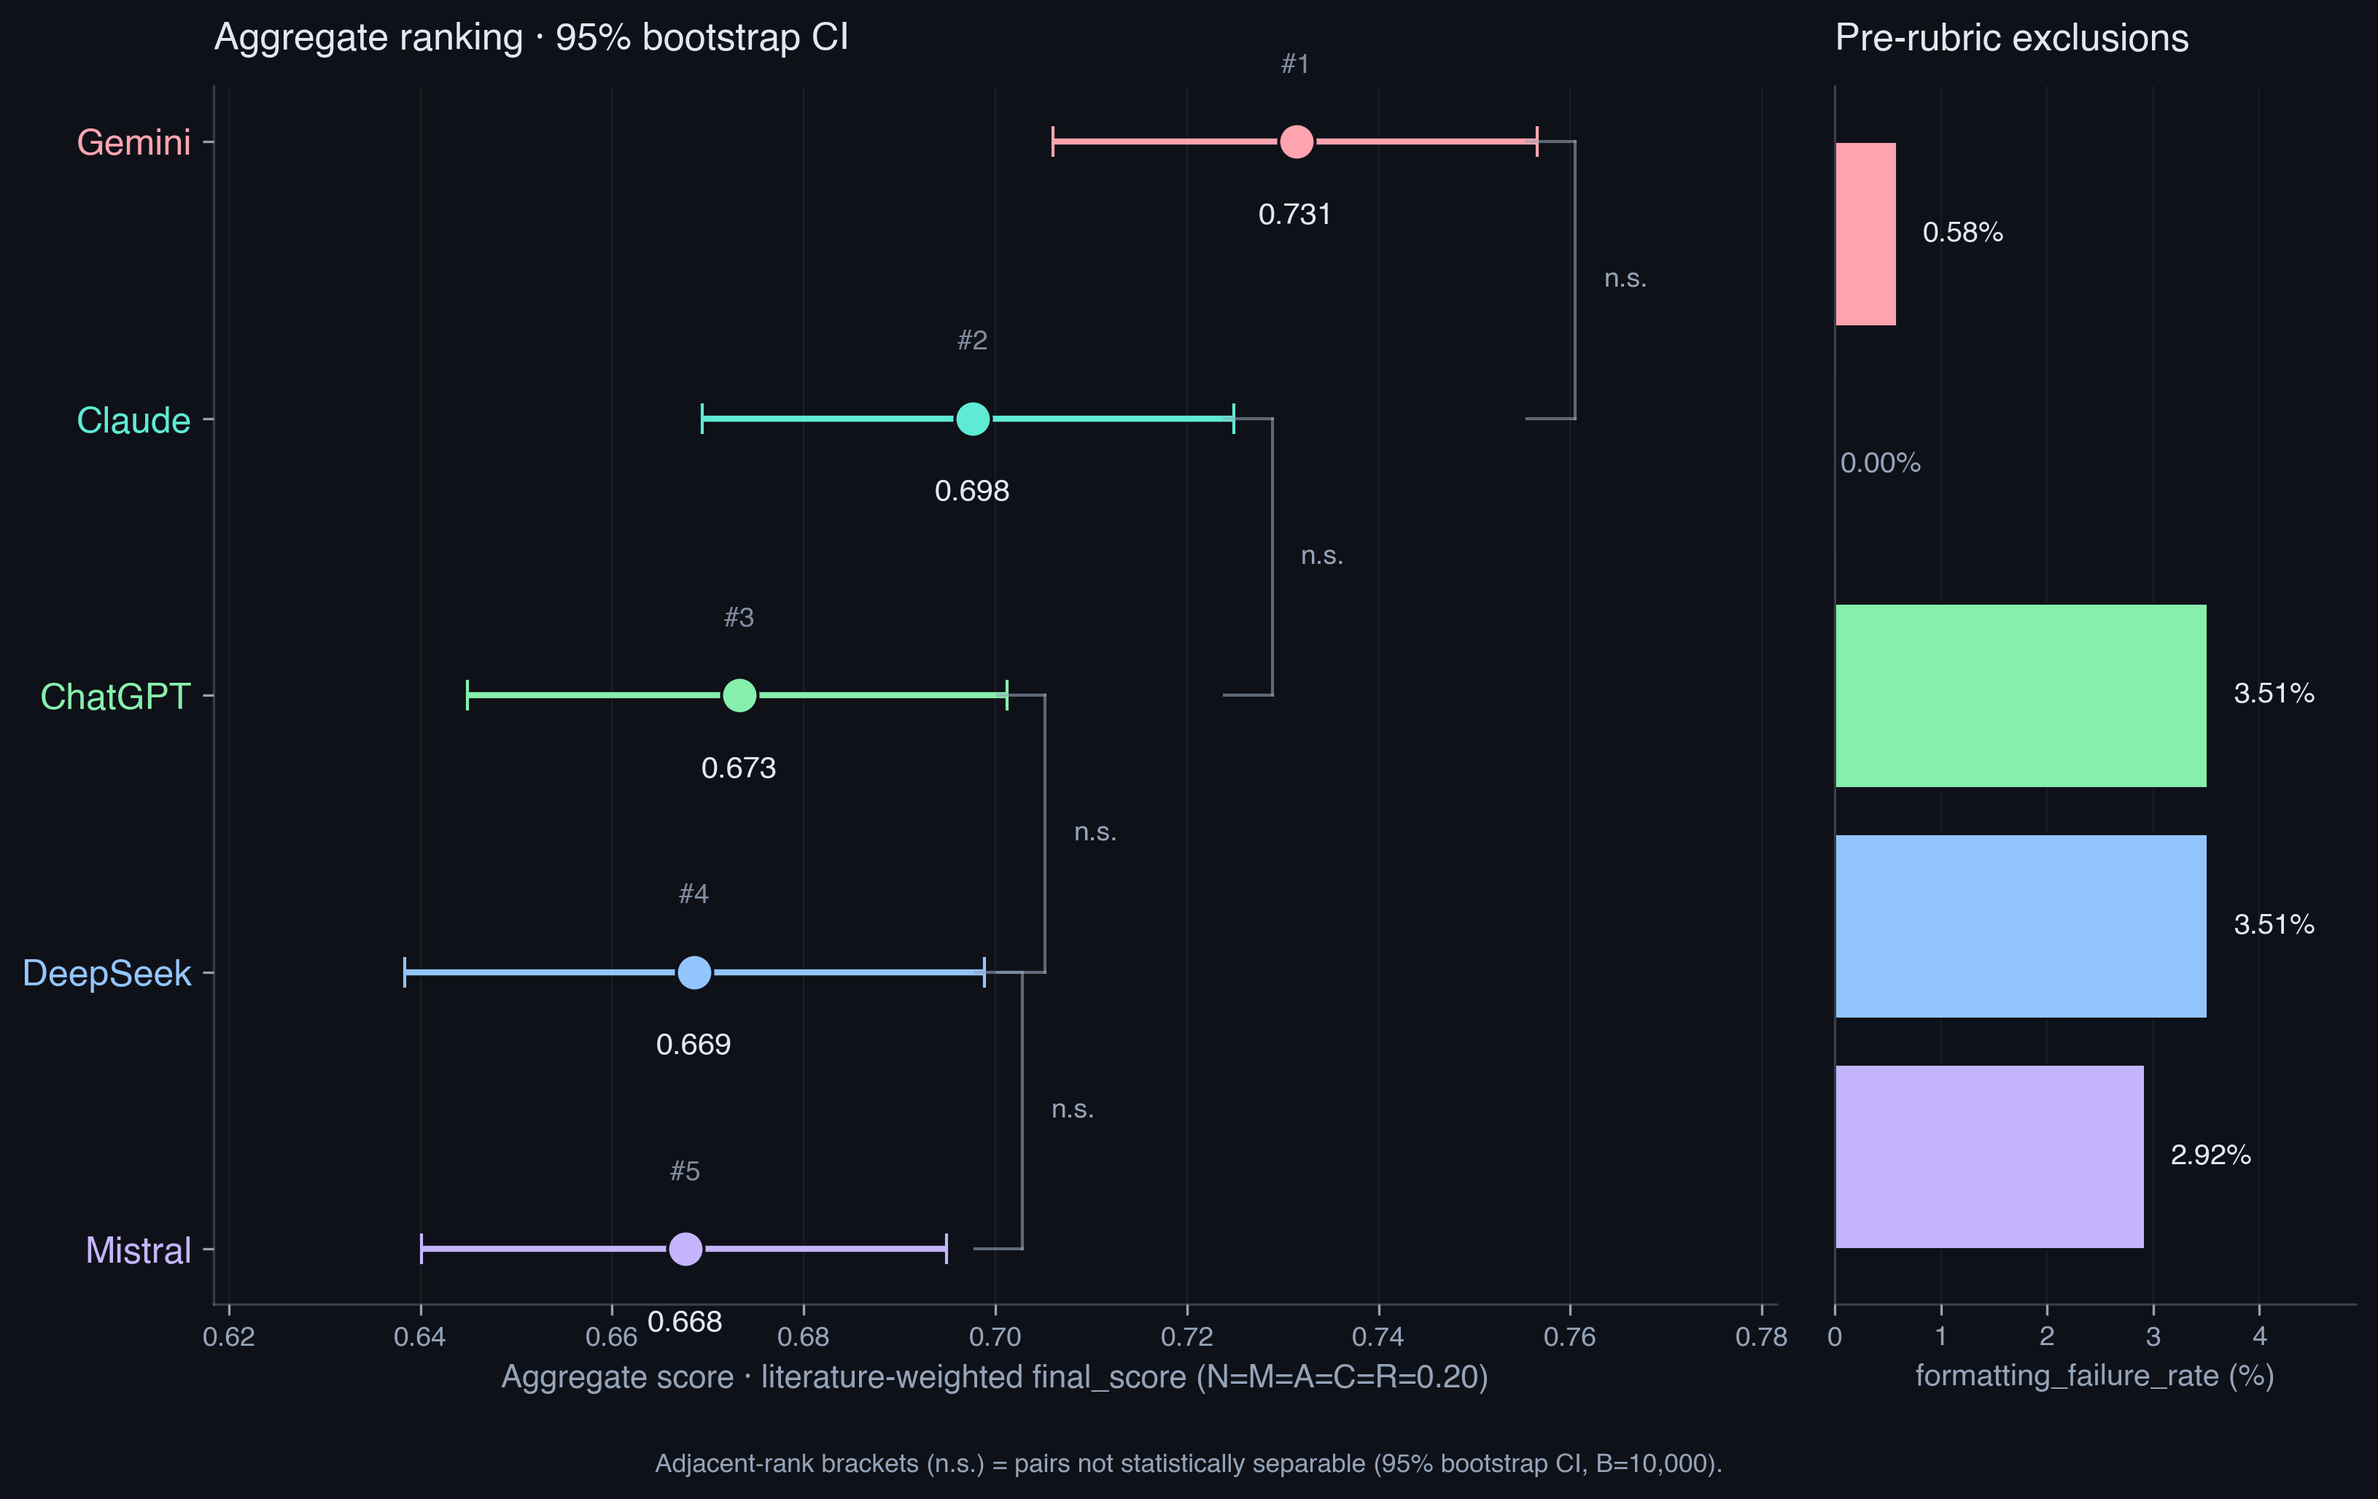
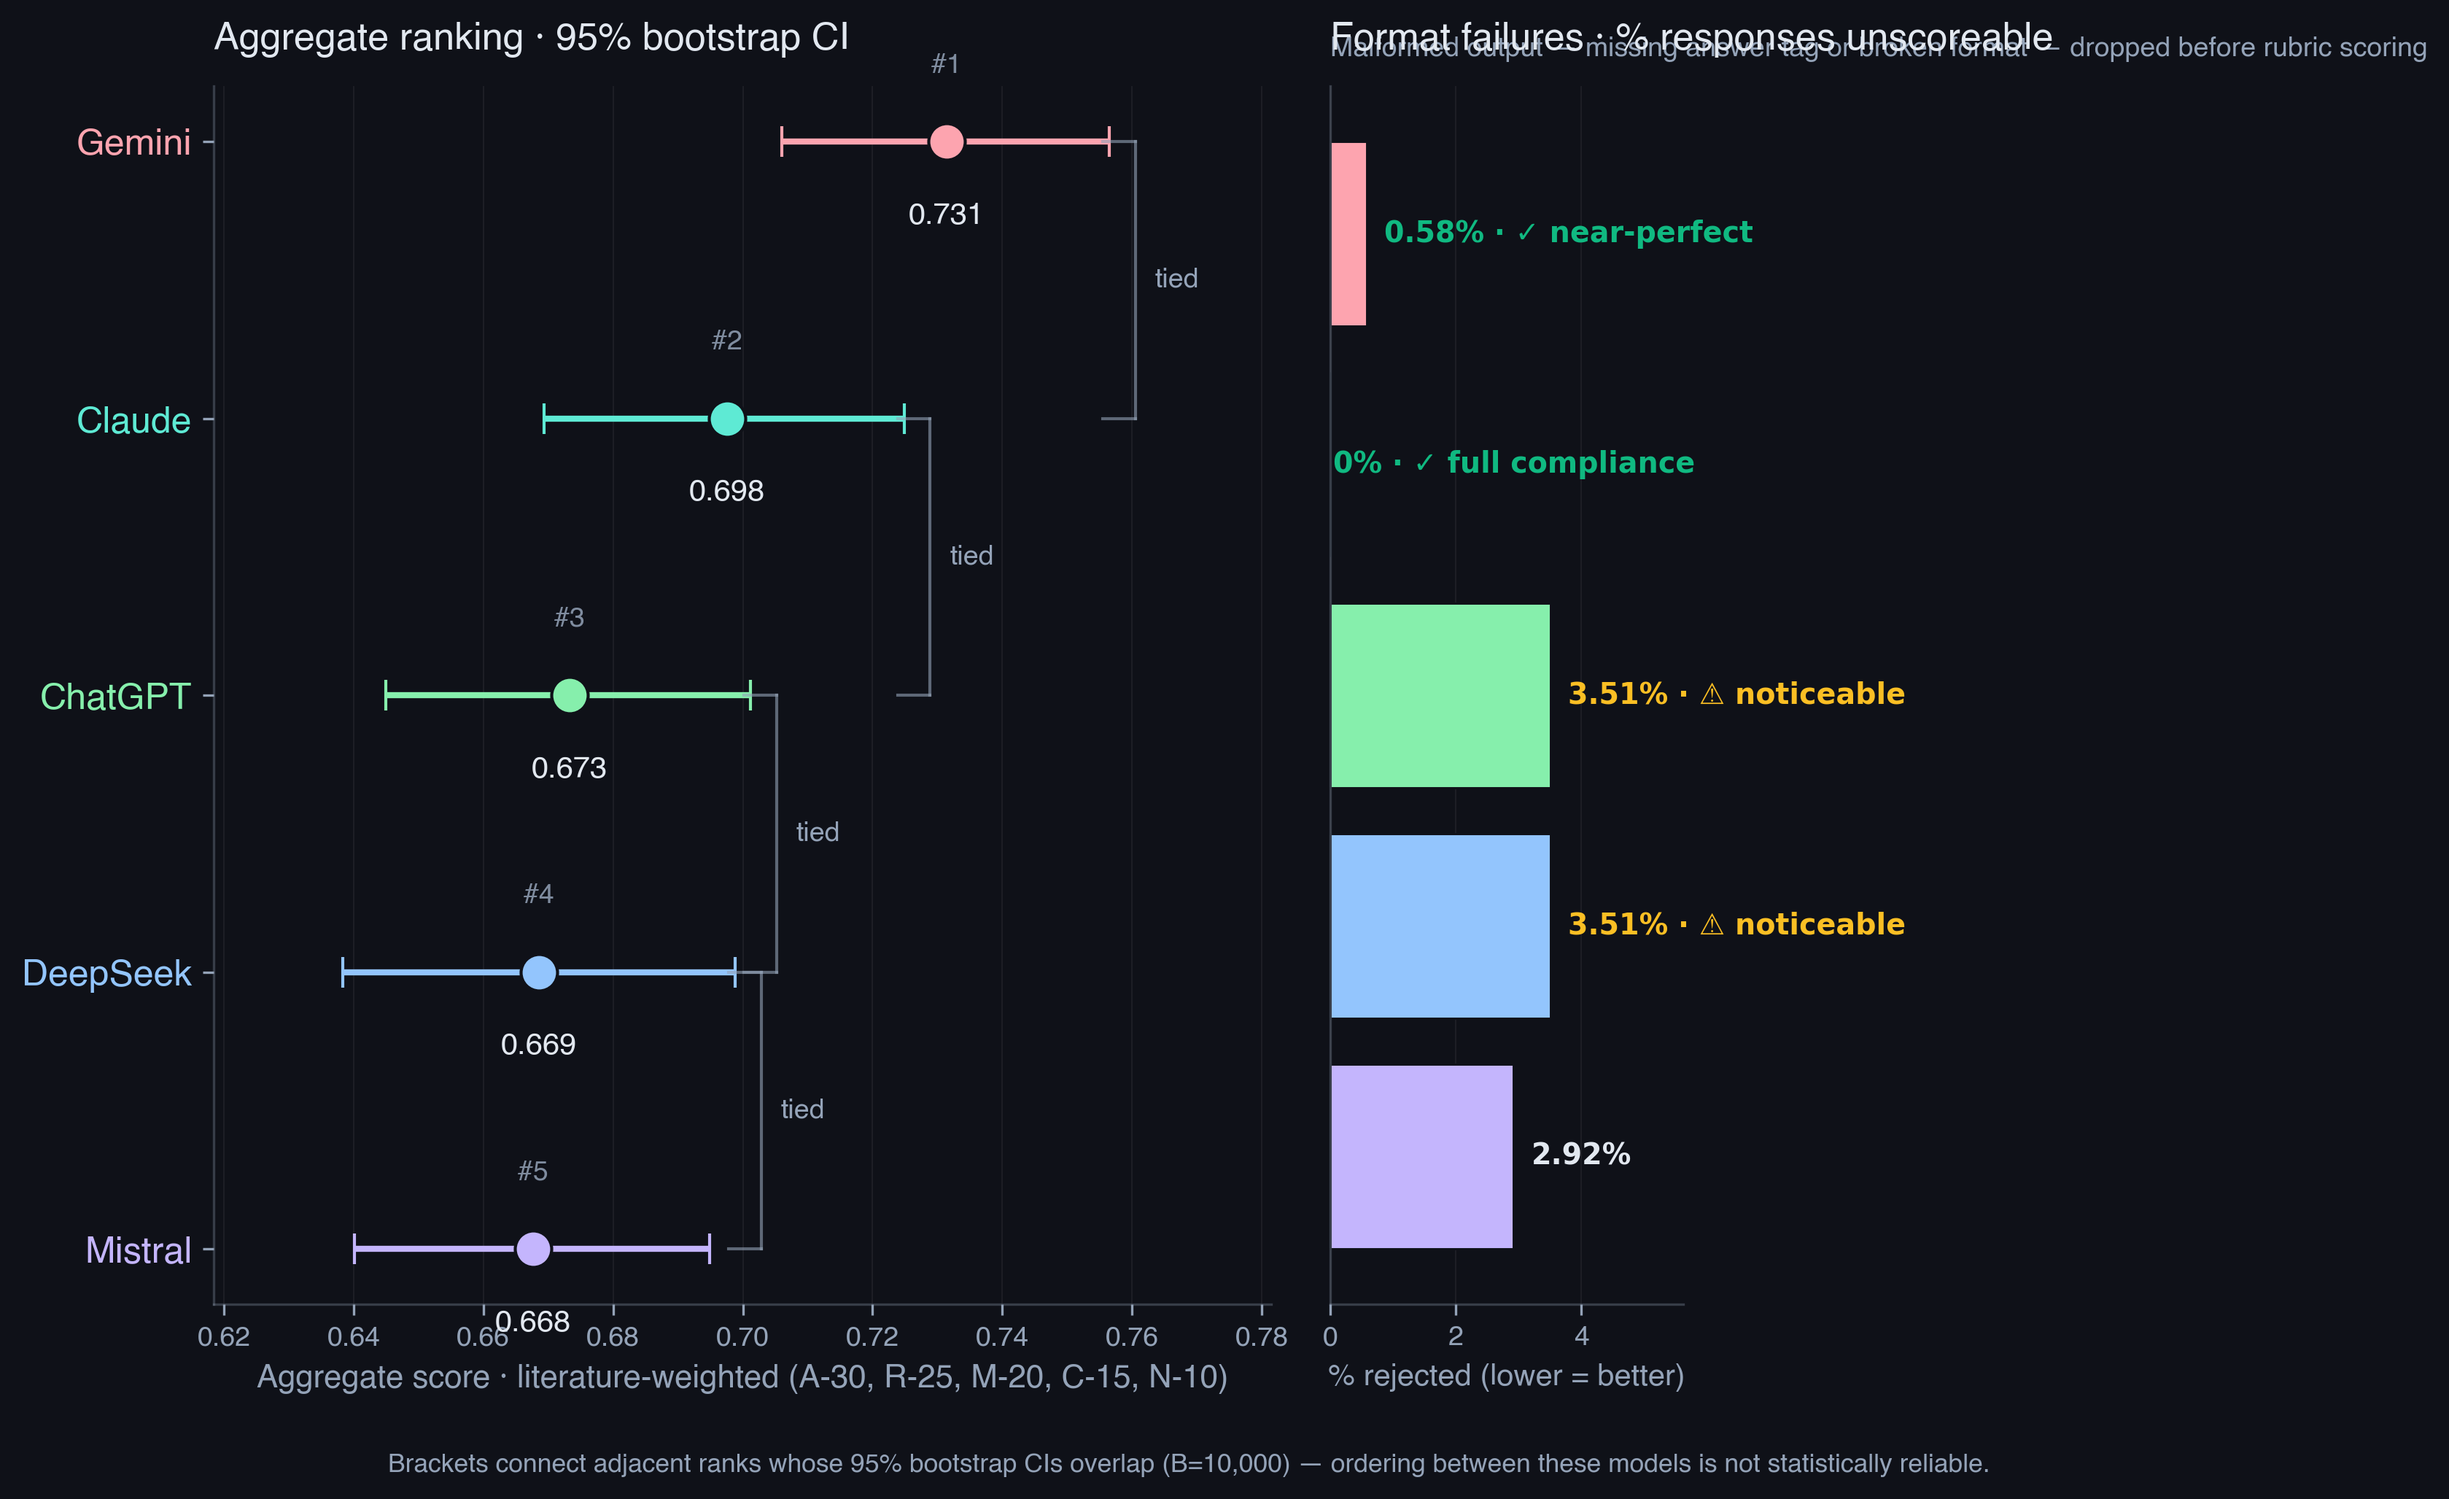
a6 polish: tied bracket label, weight format fix, format-failures panel reframed

diff --git a/scripts/generate_group_a_figures.py b/scripts/generate_group_a_figures.py
@@ -845,7 +845,7 @@ def figure_a6():
         ax.plot([x_anchor - arm, x_anchor], [j, j],
                 color=SITE_FG_MUTED, lw=1.0, alpha=0.6)
         ax.text(x_anchor + 0.003, (i + j) / 2,
-                "n.s.", ha="left", va="center", fontsize=9,
+                "tied", ha="left", va="center", fontsize=9,
                 color=SITE_FG_MUTED, fontweight="700")
 
     # X-axis padded enough to fit the rightmost n.s. label.
@@ -853,7 +853,7 @@ def figure_a6():
         if ns_pairs else max(upper) + 0.005
     ax.set_xlim(min(lower) - 0.02, max(bracket_x_max, max(upper) + 0.01))
     ax.set_xlabel(
-        "Aggregate score · literature-weighted final_score (N=M=A=C=R=0.20)",
+        "Aggregate score · literature-weighted (A-30, R-25, M-20, C-15, N-10)",
         color=SITE_FG_MUTED, fontsize=10.5)
     dim_remaining_spines(ax)
     ax.grid(axis="x", linestyle="-", alpha=SITE_GRID_ALPHA, color="#ffffff")
@@ -869,32 +869,50 @@ def figure_a6():
     ax2.barh(y_pos, rates,
              color=[MODEL_COLORS[m] for m in rank_order],
              edgecolor=SITE_BG, linewidth=0.7)
-    x_max = max(max(rates) * 1.4, 1.0) if rates else 1.0
-    for i, rate in enumerate(rates):
+    x_max = max(max(rates) * 1.6, 1.2) if rates else 1.2
+
+    COLOR_GOOD = "#10b981"
+    ACCENT_GOLD = "#fbbf24"
+    annotations = {
+        "claude":   ("0% · ✓ full compliance", COLOR_GOOD),
+        "gemini":   ("0.58% · ✓ near-perfect", COLOR_GOOD),
+        "mistral":  ("2.92%", SITE_FG),
+        "chatgpt":  ("3.51% · ⚠ noticeable", ACCENT_GOLD),
+        "deepseek": ("3.51% · ⚠ noticeable", ACCENT_GOLD),
+    }
+    for i, m in enumerate(rank_order):
+        rate = rates[i]
+        text, color = annotations[m]
         if rate < 1e-6:
-            # Zero-width bar — left-justify label flush against the y-axis
-            # so it doesn't float in empty right-side space.
-            ax2.text(0.05, y_pos[i], f"{rate:.2f}%",
+            ax2.text(0.05, y_pos[i], text,
                      va="center", ha="left",
-                     color=SITE_FG_MUTED, fontsize=9.5, fontweight="700")
+                     color=color, fontsize=9.5, fontweight="700",
+                     fontfamily="DejaVu Sans")
         else:
-            ax2.text(rate + x_max * 0.05, y_pos[i], f"{rate:.2f}%",
+            ax2.text(rate + x_max * 0.05, y_pos[i], text,
                      va="center", ha="left",
-                     color=SITE_FG, fontsize=9.5, fontweight="700")
+                     color=color, fontsize=9.5, fontweight="700",
+                     fontfamily="DejaVu Sans")
     ax2.set_yticks([])
     ax2.invert_yaxis()
     ax2.set_xlim(0, x_max)
-    ax2.set_xlabel("formatting_failure_rate (%)",
+    ax2.set_xlabel("% rejected (lower = better)",
                    color=SITE_FG_MUTED, fontsize=10)
     dim_remaining_spines(ax2)
     ax2.grid(axis="x", linestyle="-", alpha=SITE_GRID_ALPHA, color="#ffffff")
     ax2.set_axisbelow(True)
-    ax2.set_title("Pre-rubric exclusions",
+    ax2.set_title("Format failures · % responses unscoreable",
                   fontsize=12.5, fontweight="700", color=SITE_FG, pad=12, loc="left")
+    ax2.text(0.0, 1.02,
+             "Malformed output — missing answer tag or broken format — "
+             "dropped before rubric scoring",
+             transform=ax2.transAxes, ha="left", va="bottom",
+             fontsize=9, style="italic", color=SITE_FG_MUTED)
 
     fig.text(0.5, 0.012,
-             "Adjacent-rank brackets (n.s.) = pairs not statistically separable "
-             "(95% bootstrap CI, B=10,000).",
+             "Brackets connect adjacent ranks whose 95% bootstrap CIs overlap "
+             "(B=10,000) — ordering between these models is not statistically "
+             "reliable.",
              ha="center", fontsize=8.5, style="italic", color=SITE_FG_MUTED)
 
     fig.tight_layout(rect=(0, 0.04, 1, 1))
